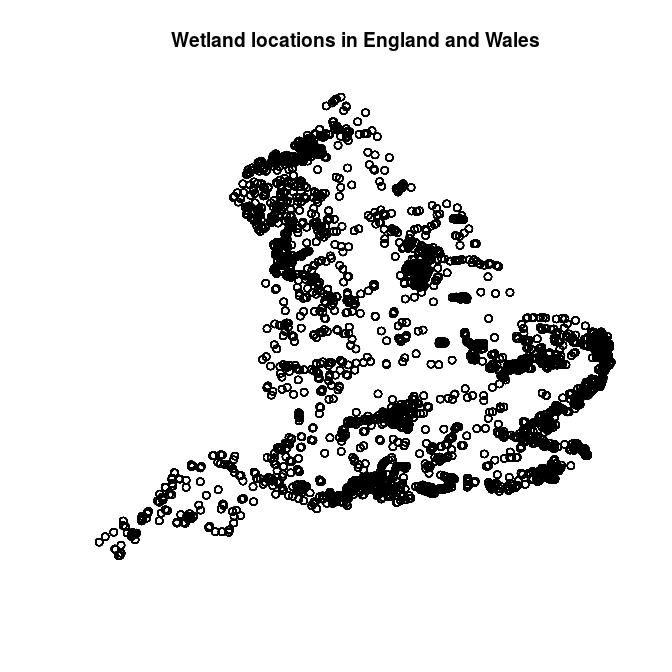
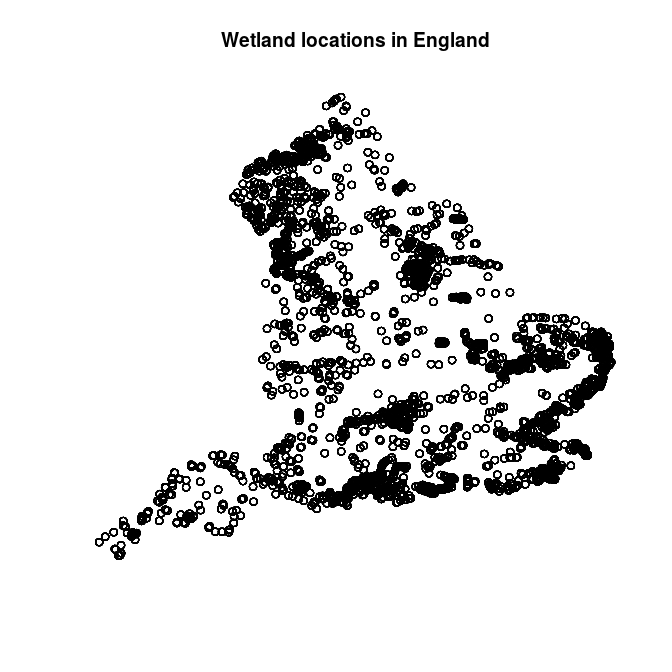
plot

Changed region(s): [[0.25, 0.0312, 0.8125, 0.0938]]

diff --git a/Ecography_ESD.md b/Ecography_ESD.md
@@ -1,7 +1,7 @@
 This supplementary material provides the code used to fit the
 spatio-temporal marked log-Gaussian Cox process discussed in *Estimating
 species distribution in highly dynamic populations using point process
-models* submitted to *Ecography*. There is an onlie version of this
+models* submitted to *Ecography*. There is an online version of this
 tutorial also avaiable
 [here](https://github.com/cmjt/examples/blob/master/Ecography_ESD.md).
 
@@ -27,7 +27,7 @@ and binomial mark vector.
     ## get coordinates (latitude and longitude of wetland
     ## locations)
     locs <- cbind(wetland[, 14], wetland[, 15])
-    plot(locs, main = "Wetland locations in England and Wales", axes = FALSE, 
+    plot(locs, main = "Wetland locations in England", axes = FALSE, 
         xlab = "", ylab = "")
 
 ![](Ecography_ESD_files/figure-markdown_strict/data-1.png)
